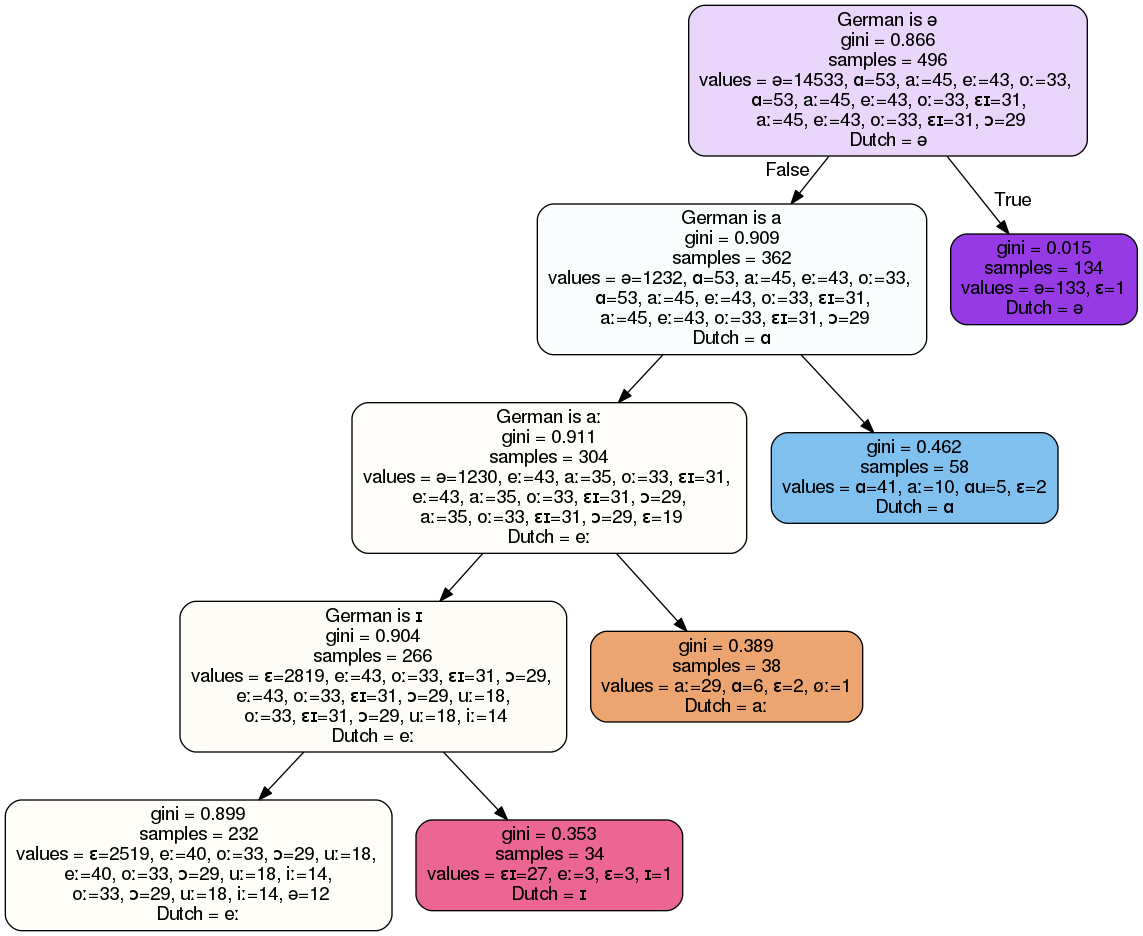
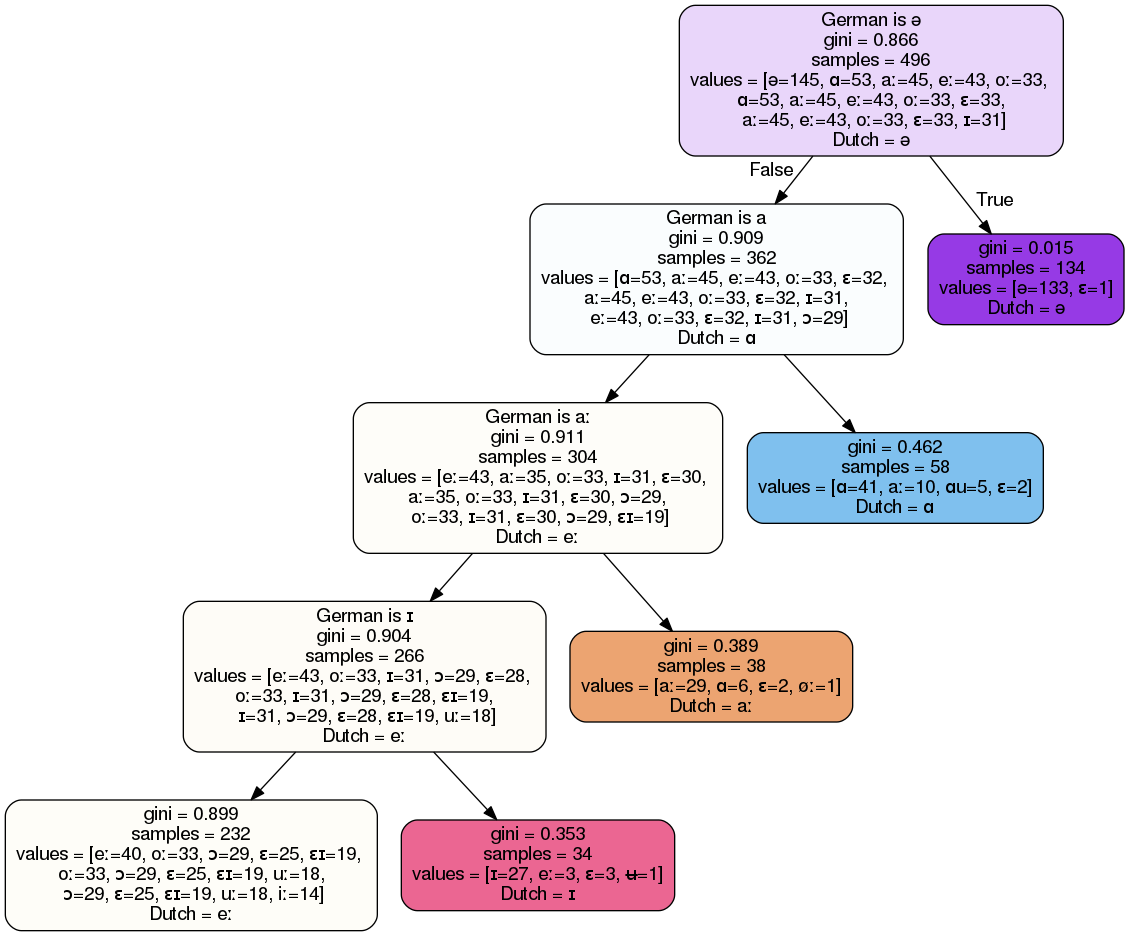
Fix bug in label generation for graphviz

diff --git a/multitiers/classifier.py b/multitiers/classifier.py
@@ -95,7 +95,7 @@ class Classifier:
         # replace value array with readable one
         def _array2str(matchobj):
             # grab array, remove any internal "<br/>", split into ints
-            val = matchobj.group('array').replace("<br/>", "")
+            val = matchobj.group('array').replace("<br/>", ",")
             val = [int(v.strip()) for v in val.split(",")]
 
             # zip into class/count tuples, remove zero counts, sort, map
@@ -115,7 +115,7 @@ class Classifier:
 
             # return (with [:-1] for the final comma)
             val = " ".join(val)
-            return f">values = {val[:-1]}<br/>"
+            return f">values = [{val[:-1]}]<br/>"
 
         dot_data = re.sub(
             r">value = \[(?P<array>.+)\]<br\/>",
